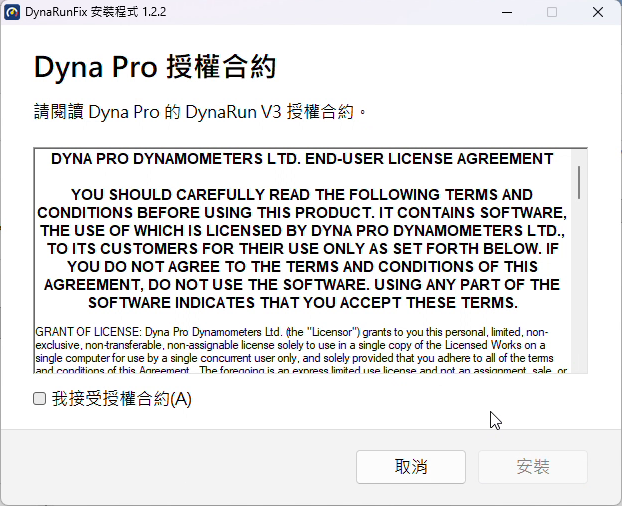
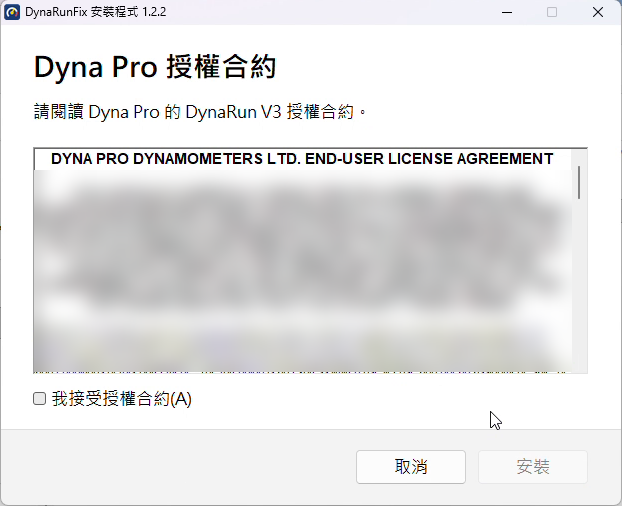
v1.2.3: licence compliance clean-up
- Remove tools/msi-novbs: DynaRunFix no longer ships a tool that produces a
  modified copy of Dyna Pro's setup (their EULA forbids modifying it).
- docs/FIRST_START.md: drop the code addresses and the reconstructed VB loop;
  describe only behaviour observed from outside DynaRun.
- Ship miniz's MIT notice: embedded in the installer and written to
  InstallDir\LICENSE-miniz.txt, and added to the release zip.
- README: ask users to check their licence agreement with Dyna Pro.
- Blur the EULA text in the installer screenshot.

Changed region(s): [[0.0305, 0.3261, 0.9164, 0.7411]]

diff --git a/src/setup.c b/src/setup.c
@@ -550,7 +550,8 @@ static int machine_install(const WCHAR *sid)
     if (g_close) close_programs();
     if (running_programs()) return RC_RUNNING;          // checked again here: DynaRun may have been started since
     CreateDirectoryW(g_dir, NULL);
-    if (!extract(1, g_launcher) || !extract(2, cat3(p, g_dir, L"\\dynafix.dll", NULL))) {
+    if (!extract(1, g_launcher) || !extract(2, cat3(p, g_dir, L"\\dynafix.dll", NULL)) ||
+        !extract(4, cat3(p, g_dir, L"\\LICENSE-miniz.txt", NULL))) {
         error2(T(L"Cannot write the program files. Close DynaRun and try again.", L"無法寫入程式檔案。請關閉 DynaRun 後再試一次。"), g_dir);
         return 1;
     }

diff --git a/README.md b/README.md
@@ -9,7 +9,8 @@ software (Dyna Pro Dynamometers, S68 and similar rigs) when it runs **natively o
 
 > This project is not affiliated with or endorsed by Dyna Pro Dynamometers Ltd or THB Componentware.
 > It does not contain, modify or redistribute any of their files, and it does not touch licensing or
-> copy-protection in any way. You need your own legally installed copy of DynaRun V3.
+> copy-protection in any way. You need your own legally installed copy of DynaRun V3, and it is up to you to
+> make sure that using this fix is consistent with your licence agreement with Dyna Pro.
 
 ## Symptom
 
@@ -287,9 +288,8 @@ Only the setup wizard's **Next**/**Back** buttons use VBScript (two Wise custom 
 everything the setup installs do not. Once Windows disables VBScript by default (planned for about 2027) the
 interactive setup is expected to stop at the first **Next**, while `msiexec /i Setup.msi /qb` keeps working.
 `DynaRunFix-Setup.exe` already runs it that way, so this only matters when you start Dyna Pro's `Setup.msi` yourself.
-[`tools/msi-novbs/Remove-WiseVBScript.ps1`](tools/msi-novbs/Remove-WiseVBScript.ps1) turns your own
-`Setup.msi` into a transform (`Setup-novbs.mst`) and a patched copy that install without VBScript and without
-the warning. Details, timeline and test results: [docs/VBSCRIPT.md](docs/VBSCRIPT.md).
+If VBScript has been switched off, turn it back on under *Optional features* before running that setup, or ask
+Dyna Pro for a setup that does not need it. Details and timeline: [docs/VBSCRIPT.md](docs/VBSCRIPT.md).
 
 ## Building
 
@@ -326,7 +326,7 @@ MIT, see [LICENSE](LICENSE).
 讓 *DynaRun V3* 馬力機軟體(Dyna Pro Dynamometers,S68 等機型)**原生在 Windows 10/11 執行時主畫面不再閃爍**的小型相容性修正。
 
 > 本專案與 Dyna Pro Dynamometers Ltd、THB Componentware 無任何關係,不包含、不修改、不散布原廠任何檔案,
-> 也完全不碰授權或防拷機制。你必須自備合法安裝的 DynaRun V3。
+> 也完全不碰授權或防拷機制。你必須自備合法安裝的 DynaRun V3,並請自行確認使用本修正符合你與 Dyna Pro 之間的授權條款。
 
 ### 症狀
 Win10/11 上主儀表板每秒閃好幾次(整個視窗消失又出現);同一套安裝在 XP / Win7 正常。
@@ -514,8 +514,7 @@ Process Monitor 可以看到它只查了屬性,完全沒開檔讀取。跟檔案
 只有安裝精靈的「Next/Back」換頁用到 VBScript(Wise 的兩個自訂動作),DynaRun 本身和安裝的內容都沒有。
 微軟預計約 2027 年預設停用 VBScript,屆時直接點兩下安裝,預期會在第一次按 Next 就失敗;`msiexec /i Setup.msi /qb`(不顯示精靈)仍可安裝。
 `DynaRunFix-Setup.exe` 本來就是這樣執行它,只有自己直接執行 Dyna Pro 的 `Setup.msi` 時才會遇到。
-[`tools/msi-novbs/Remove-WiseVBScript.ps1`](tools/msi-novbs/Remove-WiseVBScript.ps1) 會用你自己的 `Setup.msi`
-產生轉換檔(`Setup-novbs.mst`)和修改版副本,兩者都不需要 VBScript,也不會再出現警告。時程、細節與測試結果見 [docs/VBSCRIPT.md](docs/VBSCRIPT.md)。
+若 VBScript 已被停用,請先到「選用功能」重新啟用再執行該安裝程式,或向 Dyna Pro 索取不需要 VBScript 的安裝檔。時程與細節見 [docs/VBSCRIPT.md](docs/VBSCRIPT.md)。
 
 ### 建置
 安裝 Visual Studio 2019 以上(含 C++ 桌面開發),執行 `build.cmd`,產物在 `build\`(`DynaRunFix-Setup.exe` 內含 `DynaRunFix.exe`、`dynafix.dll` 和 manifest;版本字串用環境變數 `DRF_VERSION` 指定;解開 DynaRun 安裝檔用的是 [miniz](https://github.com/richgel999/miniz) 3.1.2,MIT 授權,在 `third_party/miniz`)。32 位元、不依賴 C 執行階段、XP 以上皆可執行。

diff --git a/CHANGELOG.md b/CHANGELOG.md
@@ -2,6 +2,16 @@
 
 [繁體中文在下方](#更新紀錄)
 
+## v1.2.3 — 2026-10-07
+
+- **Removed `tools/msi-novbs`:** DynaRunFix no longer ships anything that changes Dyna Pro's setup. If Windows
+  has VBScript switched off, turn it back on under *Optional features*, or use `DynaRunFix-Setup.exe`, which runs
+  Dyna Pro's setup without its VBScript wizard pages.
+- **Licences:** the installer and the zip now include the miniz licence (`LICENSE-miniz.txt`); miniz is used by
+  the installer to unpack Dyna Pro's setup.
+- **Docs:** the first-start notes describe only what can be observed from outside DynaRun; the README asks users
+  to check their licence agreement with Dyna Pro.
+
 ## v1.2.2 — 2026-10-07
 
 - **First start:** the language picked on the first start and the optional features picked on the system
@@ -23,8 +33,8 @@
   - The wizard stays in front of Explorer while DynaRun's setup and the permission prompt run.
   - Works when started from a network drive.
   - New icon.
-- **Tool:** [`tools/msi-novbs`](README.md#setup-warns-this-setup-uses-vbscript-custom-actions-windows-11-25h2)
-  makes Dyna Pro's `Setup.msi` installable without VBScript (for when Windows disables it, planned for about
+- **Tool (removed in v1.2.3):** `tools/msi-novbs`
+  made Dyna Pro's `Setup.msi` installable without VBScript (for when Windows disables it, planned for about
   2027). `DynaRunFix-Setup.exe` does not need it: it runs that setup without its VBScript wizard pages.
 
 ## v1.2.1 — 2026-10-07
@@ -52,6 +62,13 @@
 
 ## 更新紀錄
 
+### v1.2.3 — 2026-10-07
+
+- **移除 `tools/msi-novbs`:** DynaRunFix 不再提供任何修改 Dyna Pro 安裝檔的工具。Windows 停用 VBScript 時,
+  請到「選用功能」重新啟用,或使用 `DynaRunFix-Setup.exe`(它執行 Dyna Pro 安裝檔時不顯示用到 VBScript 的精靈頁面)。
+- **授權:** 安裝程式與 zip 附上 miniz 的授權(`LICENSE-miniz.txt`);安裝程式用 miniz 解開 Dyna Pro 的安裝檔。
+- **文件:** 首次啟動說明只描述從 DynaRun 外部觀察得到的行為;README 提醒使用者自行確認與 Dyna Pro 的授權條款。
+
 ### v1.2.2 — 2026-10-07
 
 - **首次啟動:** 保留第一次啟動時選的語言,以及系統選擇畫面勾選的選購功能(大氣監測、水冷、冷卻風扇、空燃比分析儀);
@@ -67,7 +84,7 @@
   - DynaRun 安裝程式和權限提示執行時,精靈保持在檔案總管前面。
   - 從網路磁碟機執行也能安裝。
   - 新圖示。
-- **工具:** [`tools/msi-novbs`](README.md#安裝程式出現此安裝程式使用-vbscript-自訂動作警告win11-25h2) 讓 Dyna Pro 的
+- **工具(v1.2.3 已移除):** `tools/msi-novbs` 讓 Dyna Pro 的
   `Setup.msi` 不需要 VBScript 也能安裝(微軟預計約 2027 年預設停用 VBScript)。`DynaRunFix-Setup.exe` 不需要它:
   它執行該安裝檔時本來就不顯示用到 VBScript 的精靈頁面。
 

diff --git a/docs/VBSCRIPT.md b/docs/VBSCRIPT.md
@@ -33,39 +33,6 @@ Until then, or on a PC where it has been switched off, VBScript can be turned ba
 DISM /Online /Add-Capability /CapabilityName:VBSCRIPT~~~~
 ```
 
-## Removing the dependency: `tools/msi-novbs/Remove-WiseVBScript.ps1`
-
-The script computes the page order once from `WiseDlgSequence` and writes it into the `ControlEvent` table
-as ordinary `NewDialog` / `EndDialog` events with conditions (and the matching *Back disabled* conditions).
-Then it deletes the two custom actions and their script. It works on any Wise setup that uses these
-two actions. It needs Windows PowerShell 5.1 or PowerShell 7.
-
-```
-powershell -ExecutionPolicy Bypass -File tools\msi-novbs\Remove-WiseVBScript.ps1 -Path D:\Setup.msi
-```
-
-It leaves `Setup.msi` untouched and writes two files next to it:
-
-- `Setup-novbs.mst` is a transform holding only the changed table rows. Install with
-  `msiexec /i Setup.msi TRANSFORMS=Setup-novbs.mst`. The transform checks ProductCode and UpgradeCode, so
-  it only applies to the same DynaRun build.
-- `Setup-novbs.msi` is a patched copy with a new PackageCode (the ProductCode is unchanged) that installs by
-  double-clicking.
-
-A transform is applied only when a product is first installed. A copy of DynaRun that is already installed
-keeps using its cached original package for *Change/Repair* (its *Programs and Features* entry has
-`NoModify=1`, so normally only *Uninstall* is offered, and that path does not run the script).
-
-### Verification (Windows 11, DynaRun 3.26.0)
-
-The UI was driven with UI Automation and Windows Installer verbose logs, and every run was cancelled before
-installing. Test copies were given a new ProductCode and PackageCode so they did not collide with the
-installed product.
-
-- Original: warning shown on the welcome page; the log shows `Doing action: WiseNextDlg` on **Next**.
-- Patched, fresh install: no warning. The page order matched the original's
-  (Welcome → License, where Next stays disabled until accepted → Destination Folder → Ready to Install),
-  and Back worked from every page. No script actions appeared in the log.
-- Patched, maintenance wizard (forced in a test copy): Modify → Select Features → Ready, Repair → Ready,
-  Remove → Uninstall confirmation; Back from each returned to *Application Maintenance*.
-- Not tested: an actual install with VBScript disabled (that needs the optional feature removed system-wide).
+DynaRunFix does not change Dyna Pro's setup. If VBScript has been switched off, turn it back on as above
+before running `Setup.msi`, use `DynaRunFix-Setup.exe` (it runs the setup without the wizard pages), or ask
+Dyna Pro for a setup that does not need it.
